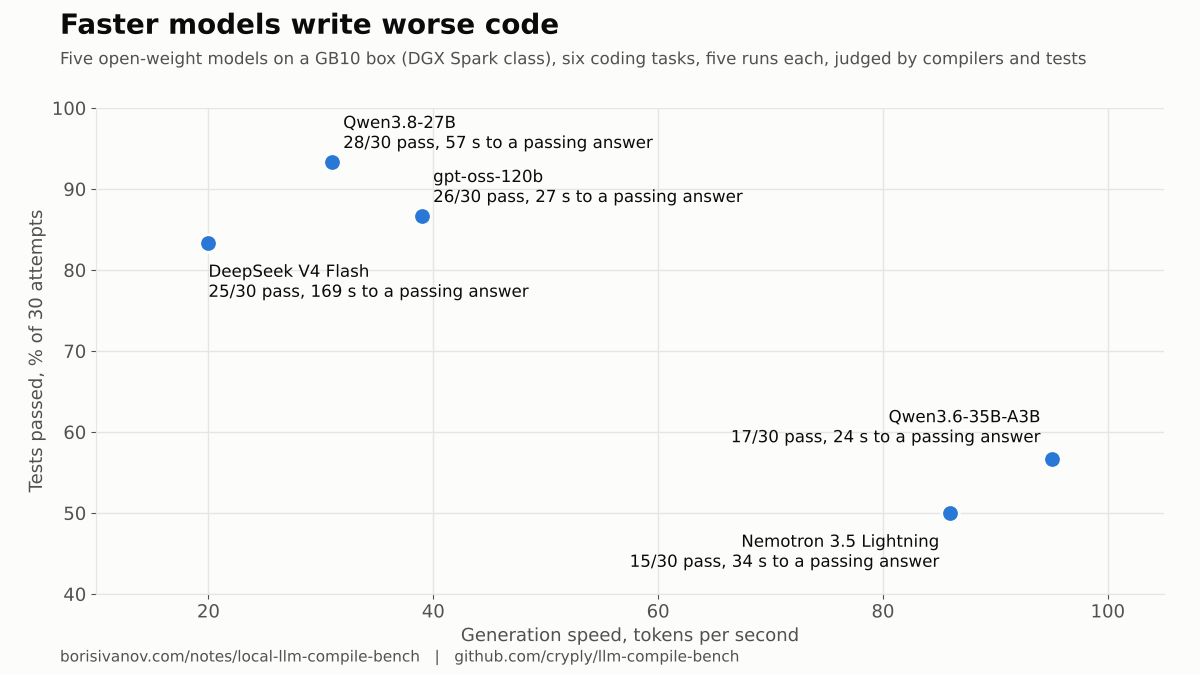
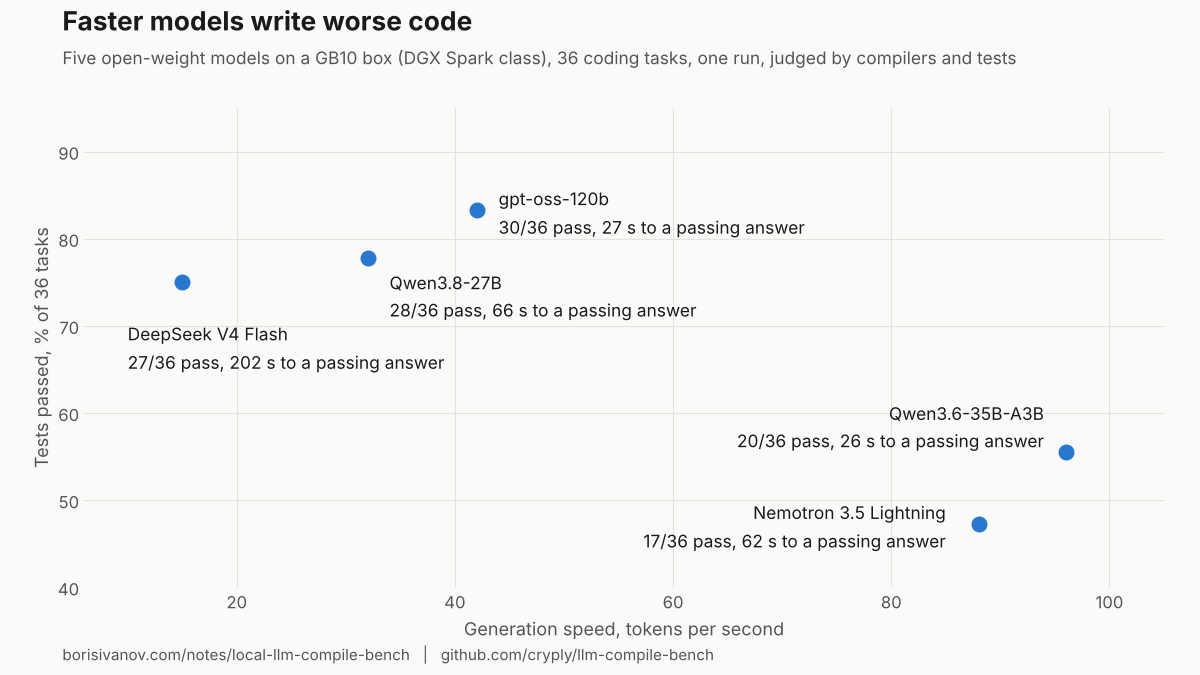
results: first single run of the 36-task set on the GB10 box
New chart from this run. DeepSeek capped at 1800 s on five tasks; rerun
with a longer cap pending. Five-run series on the new set to follow.

Claude-Session: https://claude.ai/code/session_01G4AtTJN41BY8dS1z7Y9rVo

diff --git a/results/gb10/README.md b/results/gb10/README.md
@@ -6,3 +6,8 @@ Five full runs 27.10.2026: results_20261027_1341 .. _1717.
 results_20261027_1213: first full single run, max_tokens 16000.
 results_20261027_1331: DeepSeek go_worker_pool rerun alone with max_tokens 32000 (passed, 251 s).
 results_20261027_1341..1717: the five runs quoted in the write-up, max_tokens 32000.
+results_20261029_1153: first single run of the 36-task set (six per language), harness fa70da5
+(fixed react_use_fetch test, tightened get_path spec, per-model request timeouts, timeouts recorded
+with real wall time). DeepSeek hit the 1800 s request cap on five tasks, counted as failures;
+a rerun with a 2700 s cap is pending. A five-run series on the 36-task set is next.
+The chart shows this run; the 27.10 five-run series above used the old six-task set.
